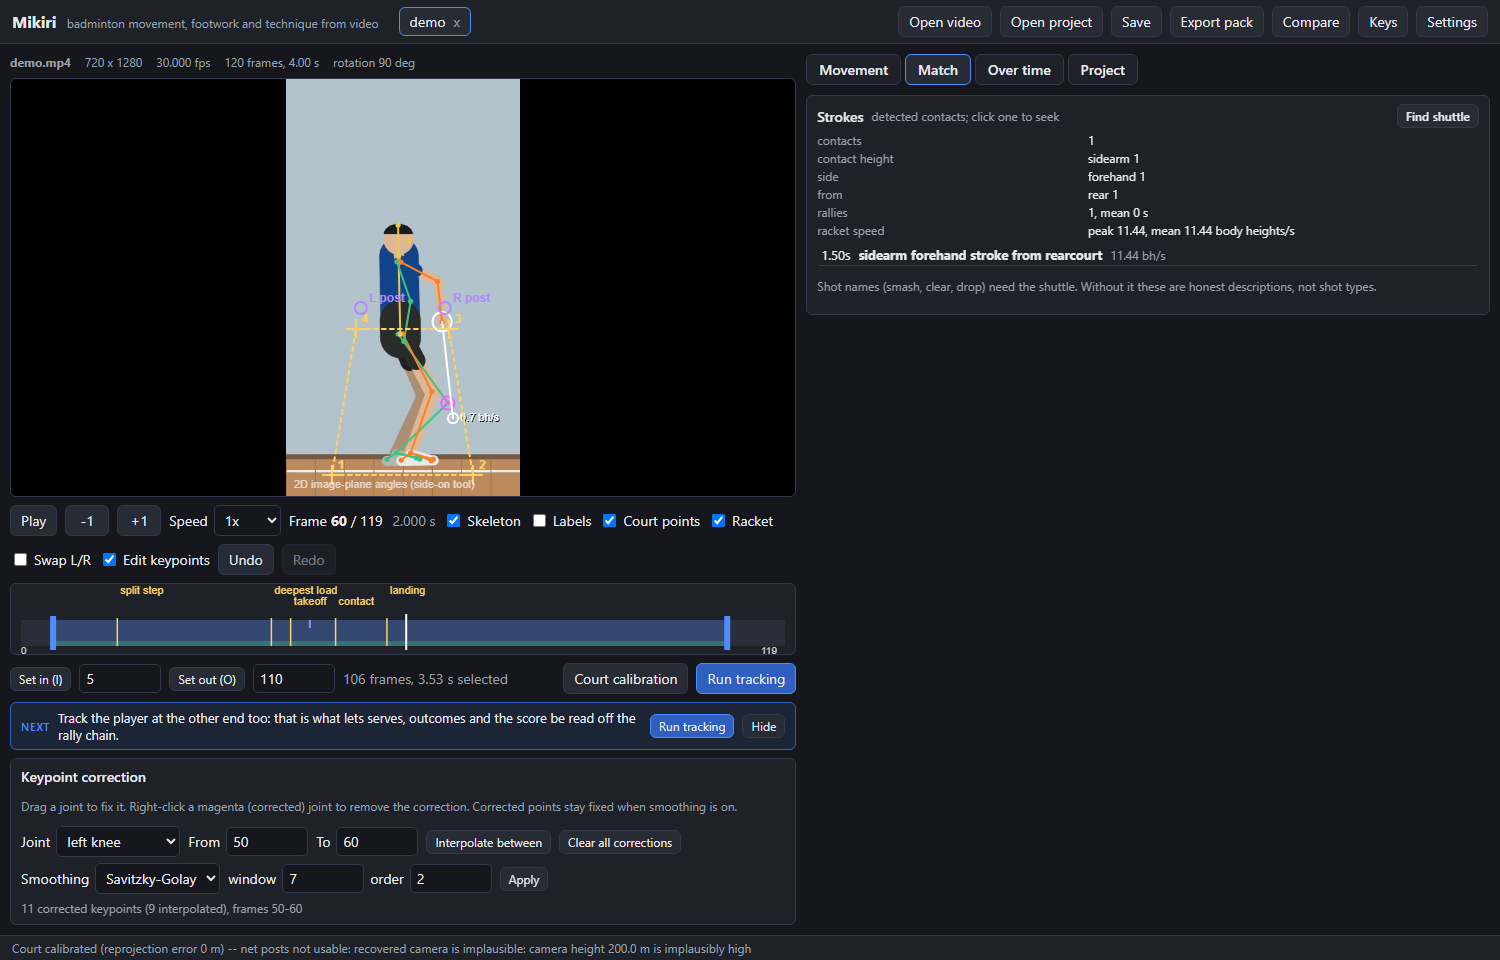
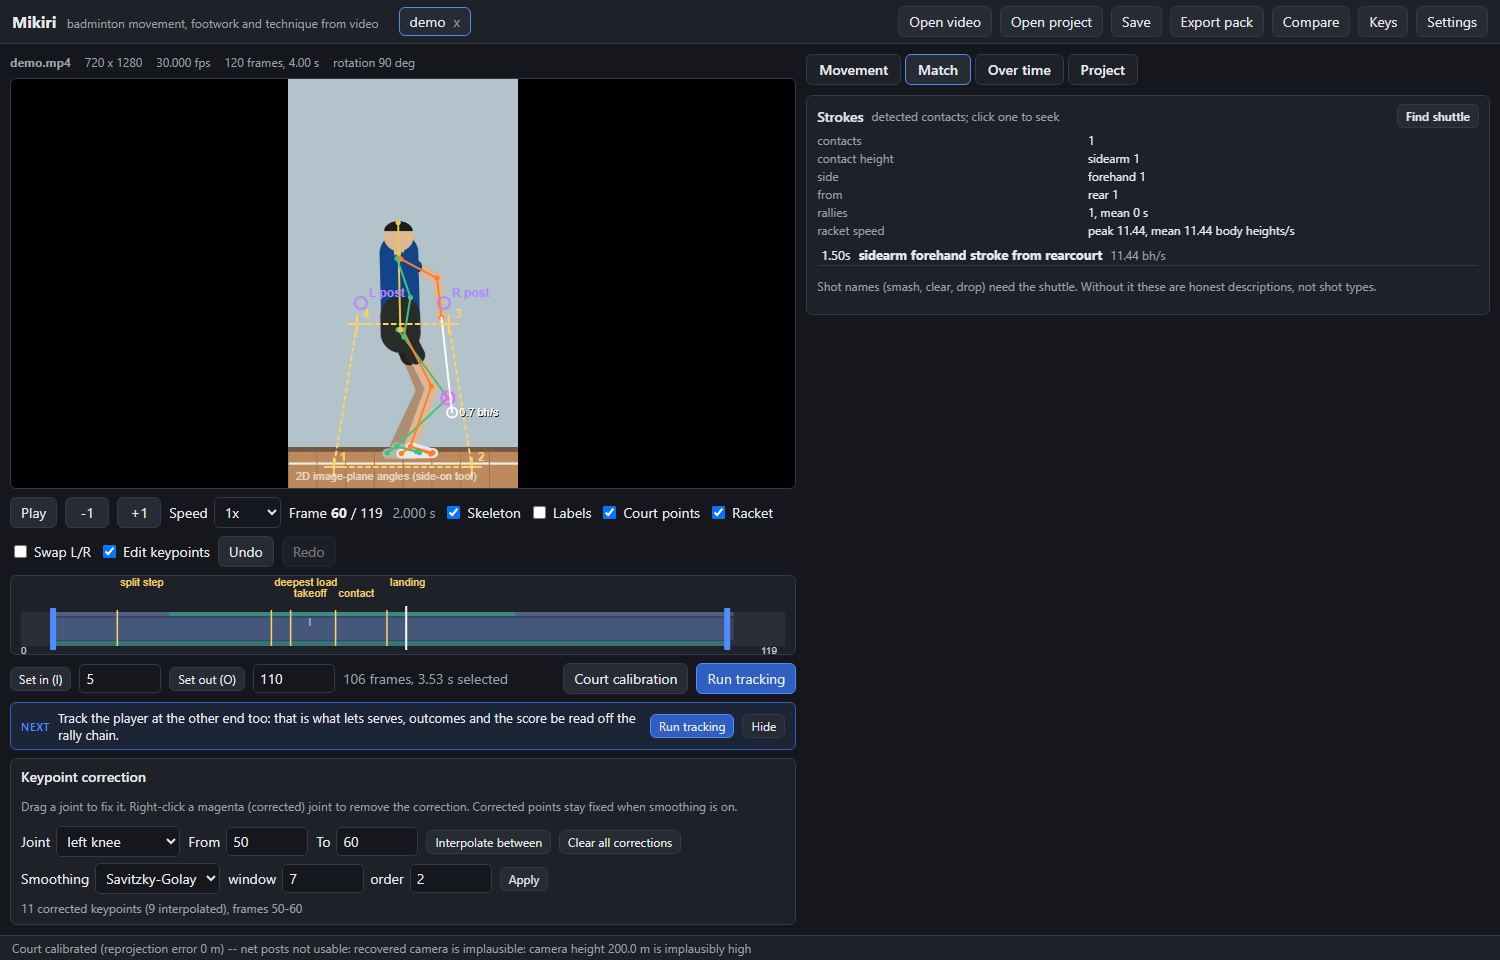
Draw the clip's play and its rallies on the timeline
The timeline showed the trim, the events and the tracked range, and nothing
of what the clip is: on a twelve-minute match the points were invisible
until the Rallies list was read. Along the top of the bar it now carries
the segmenter's states -- play in green, rest in grey, another scene in
red -- and across it the chain's rallies as bands tinted by who won, near
in the left-hand colour and far in the right-hand one, open in grey; the
bouts of play stand in where there is no chain. Hovering a band names it:
the rally, its length, its contacts, and the outcome with its provenance.

Changed region(s): [[0.0, 0.2188, 0.5213, 0.6562]]

diff --git a/src/mikiri/server/static/app.js b/src/mikiri/server/static/app.js
@@ -319,6 +319,21 @@ function renderTimeline() {
   ctx.fillStyle = '#2a2e38'; ctx.fillRect(g.pad, y0, g.w - 2 * g.pad, y1 - y0);
   // trimmed range
   ctx.fillStyle = 'rgba(79,140,255,0.28)'; ctx.fillRect(g.x(S.state.trim_start), y0, g.x(S.state.trim_end) - g.x(S.state.trim_start), y1 - y0);
+  // What each stretch of the clip is, along the top of the bar: play in
+  // green, rest in grey, another scene in red. Read straight off the
+  // segmenter's runs, so a twelve-minute match shows its points at a glance.
+  const runs = (S.state.tracking && S.state.tracking.segments) || [];
+  for (const r of runs) {
+    ctx.fillStyle = TIMELINE_STATE[r.state] || TIMELINE_STATE.idle;
+    ctx.fillRect(g.x(r.start), y0, Math.max(1, g.x(r.end + 1) - g.x(r.start)), 4);
+  }
+  // Rallies as bands, tinted by who won where the chain knows: near in the
+  // left-hand colour, far in the right-hand one, open in grey. Without a
+  // chain the bouts of play stand in, untinted.
+  for (const band of timelineBands()) {
+    ctx.fillStyle = band.fill;
+    ctx.fillRect(g.x(band.start), y0 + 6, Math.max(1, g.x(band.end + 1) - g.x(band.start)), y1 - 6 - (y0 + 6));
+  }
   // tracked range
   if (S.pose) { ctx.fillStyle = 'rgba(63,195,128,0.35)'; ctx.fillRect(g.x(S.pose.start), y1 - 5, g.x(S.pose.end) - g.x(S.pose.start), 5); }
   // lost frames
@@ -326,7 +341,7 @@ function renderTimeline() {
   // detected contacts, as short ticks so they never crowd the event labels
   if (S.pose && S.pose.strokes && S.pose.strokes.strokes.length) {
     ctx.fillStyle = 'rgba(179,136,255,0.9)';
-    for (const st of S.pose.strokes.strokes) ctx.fillRect(g.x(st.frame + S.pose.start) - 1, y0, 2, 8);
+    for (const st of S.pose.strokes.strokes) ctx.fillRect(g.x(st.frame + S.pose.start) - 1, y0 + 6, 2, 8);
   }
   // handles
   for (const f of [S.state.trim_start, S.state.trim_end]) { ctx.fillStyle = COLORS.accent; ctx.fillRect(g.x(f) - 3, y0 - 4, 6, y1 - y0 + 8); }
@@ -348,9 +363,47 @@ function renderTimeline() {
   ctx.fillStyle = '#ccc'; ctx.font = '10px sans-serif'; ctx.fillText('0', g.pad, g.h - 0); ctx.fillText(String(nFrames() - 1), g.w - g.pad - 24, g.h - 0);
 }
 
+const TIMELINE_STATE = {
+  play: 'rgba(63,195,128,0.55)', idle: 'rgba(154,160,173,0.28)', interval: 'rgba(154,160,173,0.28)',
+  warm_up: 'rgba(230,200,90,0.45)', not_badminton: 'rgba(255,92,92,0.45)',
+};
+const TIMELINE_WINNER = { near: 'rgba(63,195,128,0.22)', far: 'rgba(255,127,42,0.22)' };
+
+// The bands the timeline draws and names: the chain's rallies with their
+// outcome where there is a chain, else the bouts of play. Frames absolute.
+function timelineBands() {
+  if (!S.pose) return [];
+  const off = S.pose.start;
+  const m = S.state.match;
+  if (m && m.rallies && m.rallies.length) {
+    return m.rallies.map((r, i) => {
+      const w = r.winner && r.winner.value;
+      const label = `rally ${i + 1}, ${r.duration_s} s, ${r.n_contacts} contacts, ${w ? `${w} won (${r.winner.how})` : 'open'}`;
+      return { start: r.start + off, end: r.end + off, fill: TIMELINE_WINNER[w] || 'rgba(154,160,173,0.18)', label };
+    });
+  }
+  const b = S.state.bouts;
+  if (b && b.bouts && b.bouts.length) {
+    return b.bouts.map((x, i) => ({ start: x.start + off, end: x.end + off, fill: 'rgba(154,160,173,0.18)', label: `bout ${i + 1}, ${x.duration_s} s` }));
+  }
+  return [];
+}
+
+function timelineLabelAt(x) {
+  const g = timelineGeom(); const f = g.f(x);
+  const band = timelineBands().find((b) => f >= b.start && f <= b.end);
+  const run = ((S.state.tracking && S.state.tracking.segments) || []).find((r) => f >= r.start && f <= r.end);
+  const parts = [];
+  if (band) parts.push(band.label);
+  if (run && run.state !== 'play') parts.push(run.state.replace('_', ' '));
+  return parts.join('; ');
+}
+
 function bindTimeline() {
   const canvas = $('#timeline-canvas');
   const pos = (ev) => { const r = canvas.getBoundingClientRect(); return ev.clientX - r.left; };
+  // Hovering a band names it: the rally, its length, who won.
+  canvas.addEventListener('mousemove', (ev) => { if (S.state && !S.timelineDrag) canvas.title = timelineLabelAt(pos(ev)); });
   canvas.addEventListener('mousedown', (ev) => {
     if (!S.state) return;
     const g = timelineGeom(); const x = pos(ev);
@@ -1756,6 +1809,7 @@ window.JL = {
     return { x: r.left + kp[joint][0] * scale, y: r.top + kp[joint][1] * scale, scale, rect: r };
   },
   plotCanvas(name) { const p = S.plots.find((x) => x.name === name); return p ? p.canvas : null; },
+  timelineBands,
 };
 
 document.addEventListener('DOMContentLoaded', init);

diff --git a/src/mikiri/server/static/style.css b/src/mikiri/server/static/style.css
@@ -80,7 +80,7 @@ canvas#video-canvas, canvas#compare-canvas { display: block; max-width: 100%; ma
 .frame-readout { font-variant-numeric: tabular-nums; }
 .frame-readout #frame-time { color: var(--muted); margin-left: 6px; }
 
-.timeline { height: 72px; background: var(--bg2); border: 1px solid var(--border); border-radius: 6px; }
+.timeline { height: 80px; background: var(--bg2); border: 1px solid var(--border); border-radius: 6px; }
 .timeline canvas { width: 100%; height: 100%; display: block; cursor: pointer; }
 .trim-row { display: flex; align-items: center; gap: 8px; flex-wrap: wrap; }
 

diff --git a/tests/test_ui.py b/tests/test_ui.py
@@ -255,6 +255,10 @@ def test_ui_smoke(server: str, demo_video: Path, tmp_path: Path):
         expect(page.locator("#rally-list")).to_contain_text("bout 1")
         # With the court in, the next step is the player at the other end.
         expect(page.locator("#next-step")).to_contain_text("other end")
+        # The timeline names the bout under the pointer: without a chain the
+        # bouts of play are the bands, and hovering one says which it is.
+        bands = page.evaluate("JL.timelineBands().map((b) => b.label)")
+        assert bands and bands[0].startswith("bout 1")
 
         # Detected contacts live on the Match page: the demo clip's swing shows
         # up there with a speed and a court zone. The exact height class is
